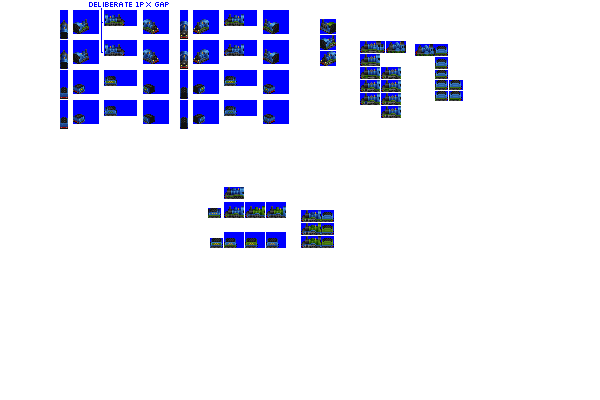
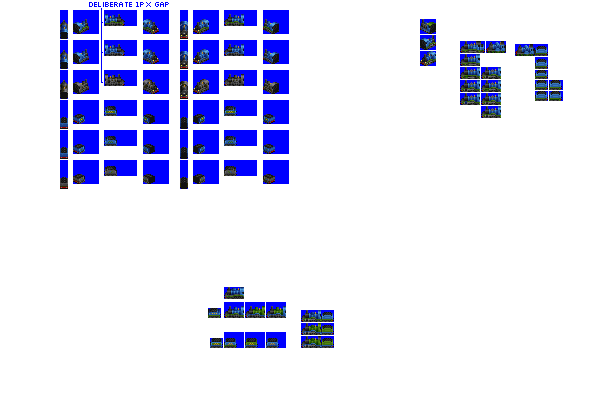
Change: additional liveries for Carrack and Spinner

diff --git a/src/vehicles/pony/spinner.py b/src/vehicles/pony/spinner.py
@@ -17,7 +17,7 @@ def main(**kwargs):
         tractive_effort_coefficient=0.12,
         fixed_run_cost_points=160,  # minor cost bonus so it can make money
         gen=1,
-        liveries=["SHOW_PONY", "STOCK_STANDARD"],
+        liveries=["SHOW_PONY", "STOCK_STANDARD", "FREIGHT_BLACK"],
         sprites_complete=True,
     )
 

diff --git a/src/vehicles/pony/carrack.py b/src/vehicles/pony/carrack.py
@@ -19,7 +19,7 @@ def main(**kwargs):
         gen=2,
         intro_year_offset=-3,  # introduce earlier than gen epoch by design
         extended_vehicle_life=True,
-        liveries=["LOWER_LINES", "STOCK_STANDARD"],
+        liveries=["LOWER_LINES", "STOCK_STANDARD", "FREIGHT_BLACK"],
         sprites_complete=True,
     )
 

diff --git a/bin/company_colour_remaps.py b/bin/company_colour_remaps.py
@@ -9,7 +9,8 @@ from polar_fox import graphics_units
 # requires a tmp dir to exist, which should be gitignored
 # set the filename
 input_filenames = [
-    "cargo_sprinter",
+    "spinner",
+    "carrack",
 ]
 
 CC1 = 198
